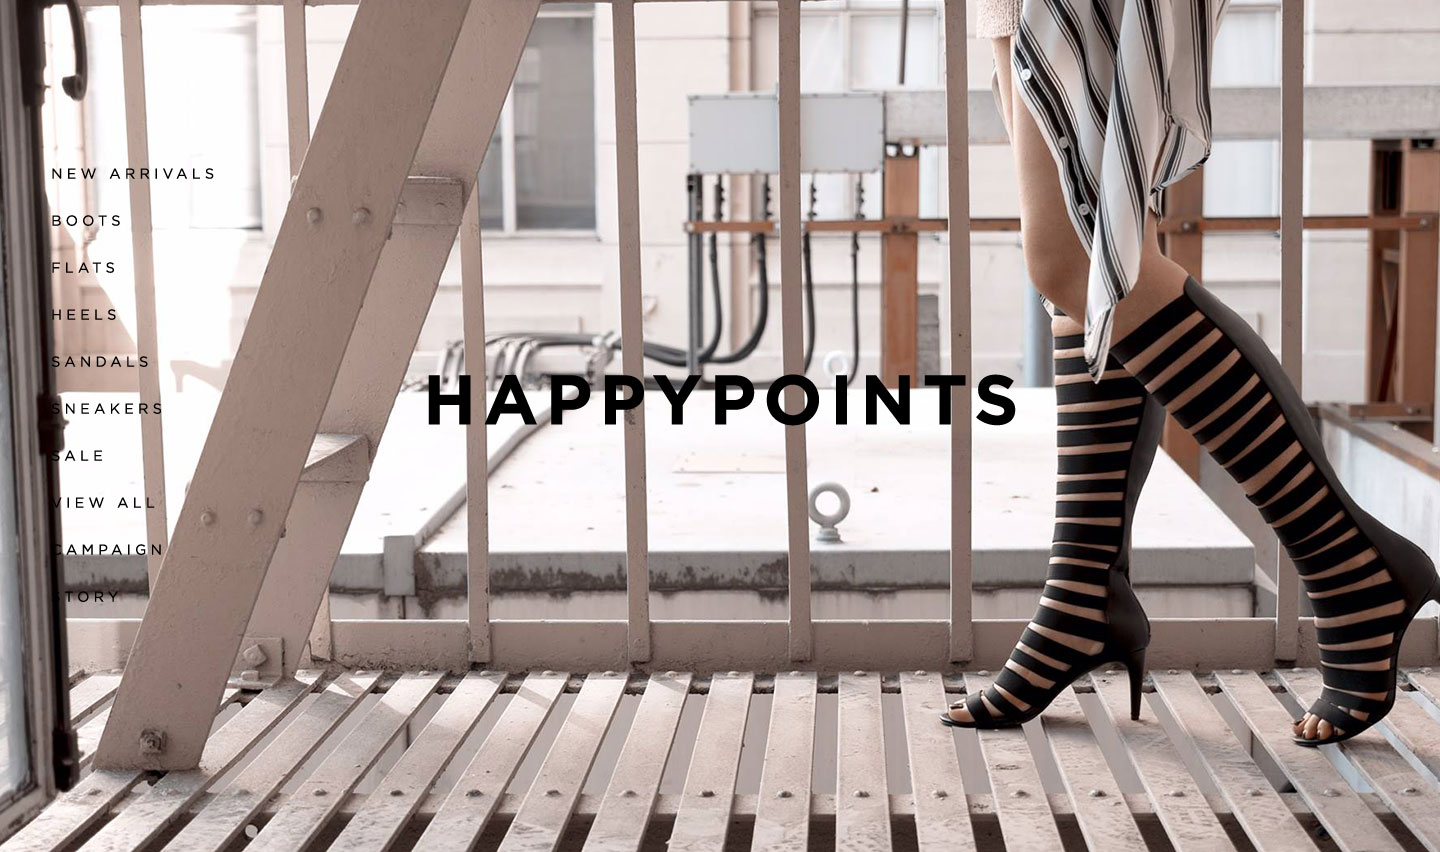
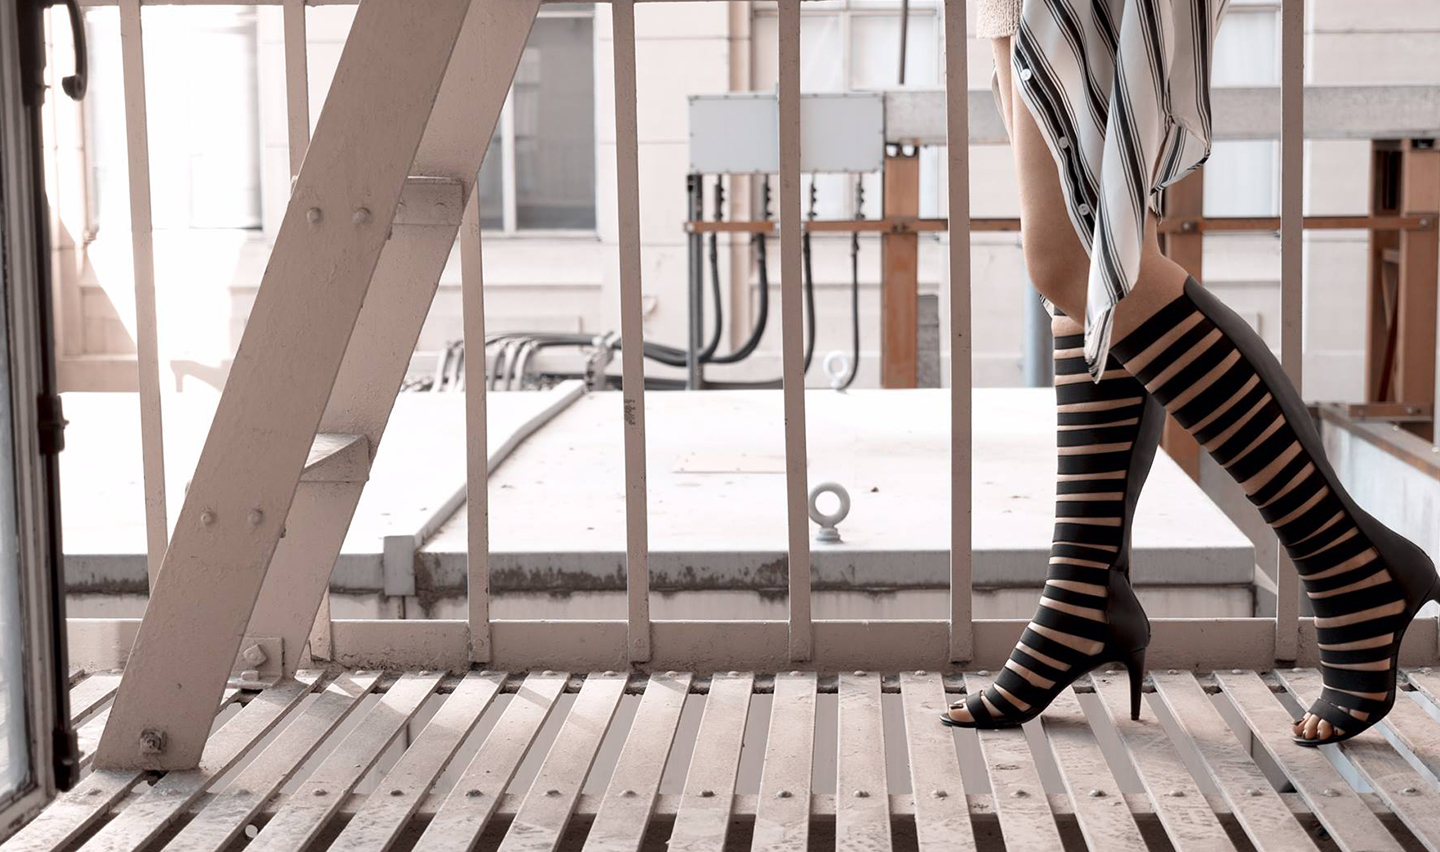
Change from text in image to text in HTML

diff --git a/index.html b/index.html
@@ -8,17 +8,23 @@
    <body>
       <div class="container">
          <div class="row">
-            <div class="col">
+            <div class="col web_img">
                <img src="images/homepage_01.jpg" alt="image">
+               <div class="text_img">Happypoints</div>
             </div>
          </div>
 
          <div class="row">
-            <span class="col">
+            <span class="col web_img">
                <img src="images/homepage_02.jpg" alt="image">
+               <div class="text_img white">Happypoints</div>
             </span>
-            <span class="col">
+            <span class="col web_img">
                <img src="images/homepage_03.jpg" alt="image">
+               <div class="text_img white">
+                  <div>Hamsa</div>
+                  <div class="smaller">Technologies</div>
+               </div>
             </span>
          </div>
          

diff --git a/stylesheet.css b/stylesheet.css
@@ -27,7 +27,27 @@ body{
    width: 100%;
    object-fit: contain;
 }
-
+.web_img{
+   position: relative;
+}
+.text_img{
+   font-family: gothamhtf-bold;
+   font-size: 60px;
+   text-transform: uppercase;
+   text-align: center;
+   position: absolute;
+   top: 50%;
+   left: 50%;
+   transform: translate(-50%, -50%);
+}
+.white{
+   color: white;
+   font-size: 50px;
+   max-width: 50%;
+}
+.smaller{
+   font-size: 25px;
+}
 .text{
    text-align: center;
    text-transform: uppercase;
